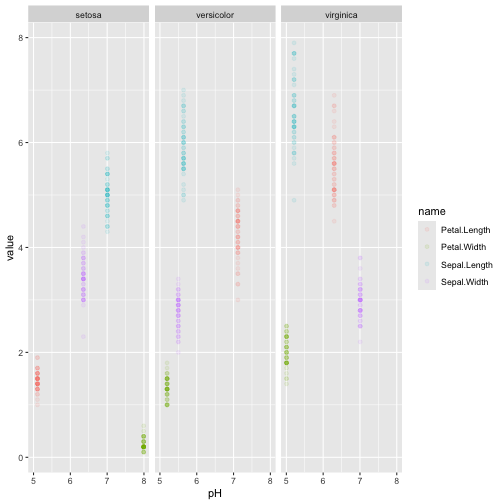
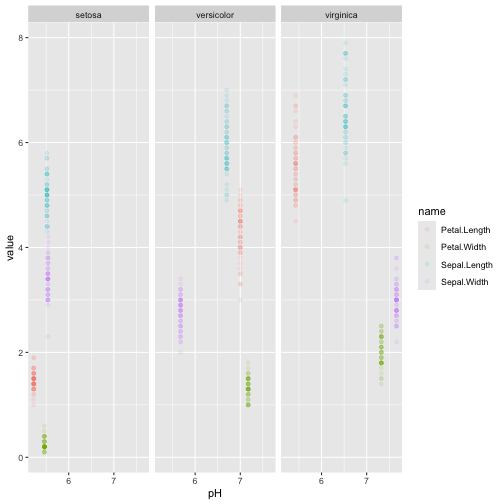
lect 9/8 fix

diff --git a/lect/3140_f25_9-08.html b/lect/3140_f25_9-08.html
@@ -25,7 +25,7 @@ class: center, middle, inverse, title-slide
 ### Boston College
 ]
 .date[
-### 2024/9/9
+### 2025/9/8
 ]
 
 ---
@@ -177,16 +177,16 @@ iris_long %&gt;%
 ## # A tibble: 600 × 4
 ##    Species name         value    pH
 ##    &lt;fct&gt;   &lt;chr&gt;        &lt;dbl&gt; &lt;dbl&gt;
-##  1 setosa  Sepal.Length   5.1  7.01
-##  2 setosa  Sepal.Width    3.5  6.35
-##  3 setosa  Petal.Length   1.4  5.11
-##  4 setosa  Petal.Width    0.2  7.99
-##  5 setosa  Sepal.Length   4.9  7.01
-##  6 setosa  Sepal.Width    3    6.35
-##  7 setosa  Petal.Length   1.4  5.11
-##  8 setosa  Petal.Width    0.2  7.99
-##  9 setosa  Sepal.Length   4.7  7.01
-## 10 setosa  Sepal.Width    3.2  6.35
+##  1 setosa  Sepal.Length   5.1  5.52
+##  2 setosa  Sepal.Width    3.5  5.54
+##  3 setosa  Petal.Length   1.4  5.23
+##  4 setosa  Petal.Width    0.2  5.46
+##  5 setosa  Sepal.Length   4.9  5.52
+##  6 setosa  Sepal.Width    3    5.54
+##  7 setosa  Petal.Length   1.4  5.23
+##  8 setosa  Petal.Width    0.2  5.46
+##  9 setosa  Sepal.Length   4.7  5.52
+## 10 setosa  Sepal.Width    3.2  5.54
 ## # ℹ 590 more rows
 ```
 ---
